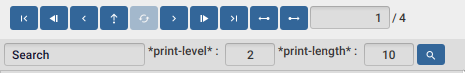
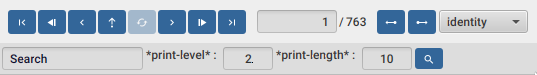
Add power stepping to stepping controls

diff --git a/docs/user_guide.html b/docs/user_guide.html
@@ -704,6 +704,7 @@ pre.rouge {
 <li><a href="#_code_tool">4.1. Code tool</a>
 <ul class="sectlevel4">
 <li><a href="#_code_stepping">Code stepping</a></li>
+<li><a href="#_power_stepping">Power stepping</a></li>
 <li><a href="#_searching">Searching</a></li>
 <li><a href="#_loops">Loops</a></li>
 <li><a href="#_exception_debugging">Exception debugging</a></li>
@@ -1569,7 +1570,7 @@ You can use it to step over each expression, visualize values, locals and more.<
 </div>
 </div>
 <div class="paragraph">
-<p>The numbers at the end show <code>current_step_index / total_steps</code>. This means that a total of <code>total_steps</code> has been recorded
+<p>The numbers at the center show <code>current_step_index / total_steps</code>. This means that a total of <code>total_steps</code> has been recorded
 for this thread so far.</p>
 </div>
 <div class="paragraph">
@@ -1582,12 +1583,15 @@ positions you find and then use this text box to jump back to it if you need.</p
 <div class="ulist">
 <ul>
 <li>
-<p>You can use the controls at the top or [Ctrl | Alt]+MouseWheel on the forms to move one step at a time.</p>
+<p>You can use the controls at the top to step over your code in different ways.</p>
 </li>
 <li>
 <p>Or you can click on the highlighted forms to position the debugger at that point in time.</p>
 </li>
 </ul>
+</div>
+<div class="paragraph">
+<p>Only the forms that were executed at least once for the flow and thread will be highlighted.</p>
 </div>
 <div class="paragraph">
 <p>From left to right this are the controls you have available :</p>
@@ -1618,16 +1622,53 @@ positions you find and then use this text box to jump back to it if you need.</p
 <li>
 <p>Jump to the last step of the recording.</p>
 </li>
+</ul>
+</div>
+</div>
+<div class="sect4">
+<h5 id="_power_stepping"><a class="anchor" href="#_power_stepping"></a><a class="link" href="#_power_stepping">Power stepping</a></h5>
+<div class="paragraph">
+<p>The controls at the right are power stepping controls. They provide more powerfull ways of stepping through the code.</p>
+</div>
+<div class="paragraph">
+<p>There are currently 3 power stepping tools :</p>
+</div>
+<div class="ulist">
+<ul>
 <li>
-<p>Follow value backwards. Will step to the previous expression (if any) that evaluates to the current value.</p>
+<p>identity, will step to the next value which identity is the same as the current value</p>
 </li>
 <li>
-<p>Follow value forward. Will step to the next expression (if any) that evaluates to the current value.</p>
+<p>equality, will step to the next value which is equals (clojure equality) to the current value</p>
+</li>
+<li>
+<p>custom, allows you to provide a predicate, which will be used to find the next step.
+If you define it like <code>(fn [v] (map? v))</code> will make the power stepper step over all map values.</p>
 </li>
 </ul>
 </div>
+<div class="imageblock">
+<div class="content">
+<img src="user_guide_images/controls_power_custom.png" alt="controls power custom">
+</div>
+</div>
 <div class="paragraph">
-<p>Only the forms that were executed at least once for the flow and thread will be highlighted.</p>
+<p>Clicking on the back and forward button will use the selected power stepping tool.</p>
+</div>
+<div class="admonitionblock note">
+<table>
+<tr>
+<td class="icon">
+<div class="title">Note</div>
+</td>
+<td class="content">
+<div class="title">Custom stepping</div>
+<div class="paragraph">
+<p>Custom power stepping is only supported in Clojure now.</p>
+</div>
+</td>
+</tr>
+</table>
 </div>
 </div>
 <div class="sect4">
@@ -2769,7 +2810,7 @@ by providing <code>:verbose? true</code> to the options map.</p>
 </div>
 <div id="footer">
 <div id="footer-text">
-Last updated 2023-07-27 08:15:04 -0300
+Last updated 2023-07-27 10:33:28 -0300
 </div>
 </div>
 </body>

diff --git a/CHANGELOG.md b/CHANGELOG.md
@@ -6,6 +6,7 @@
     
     - Add "Search value on Flows" to taps
     - Add "Timeline tool" implementation
+    - Add power stepping to stepping controls
     
 ### Changes
     
